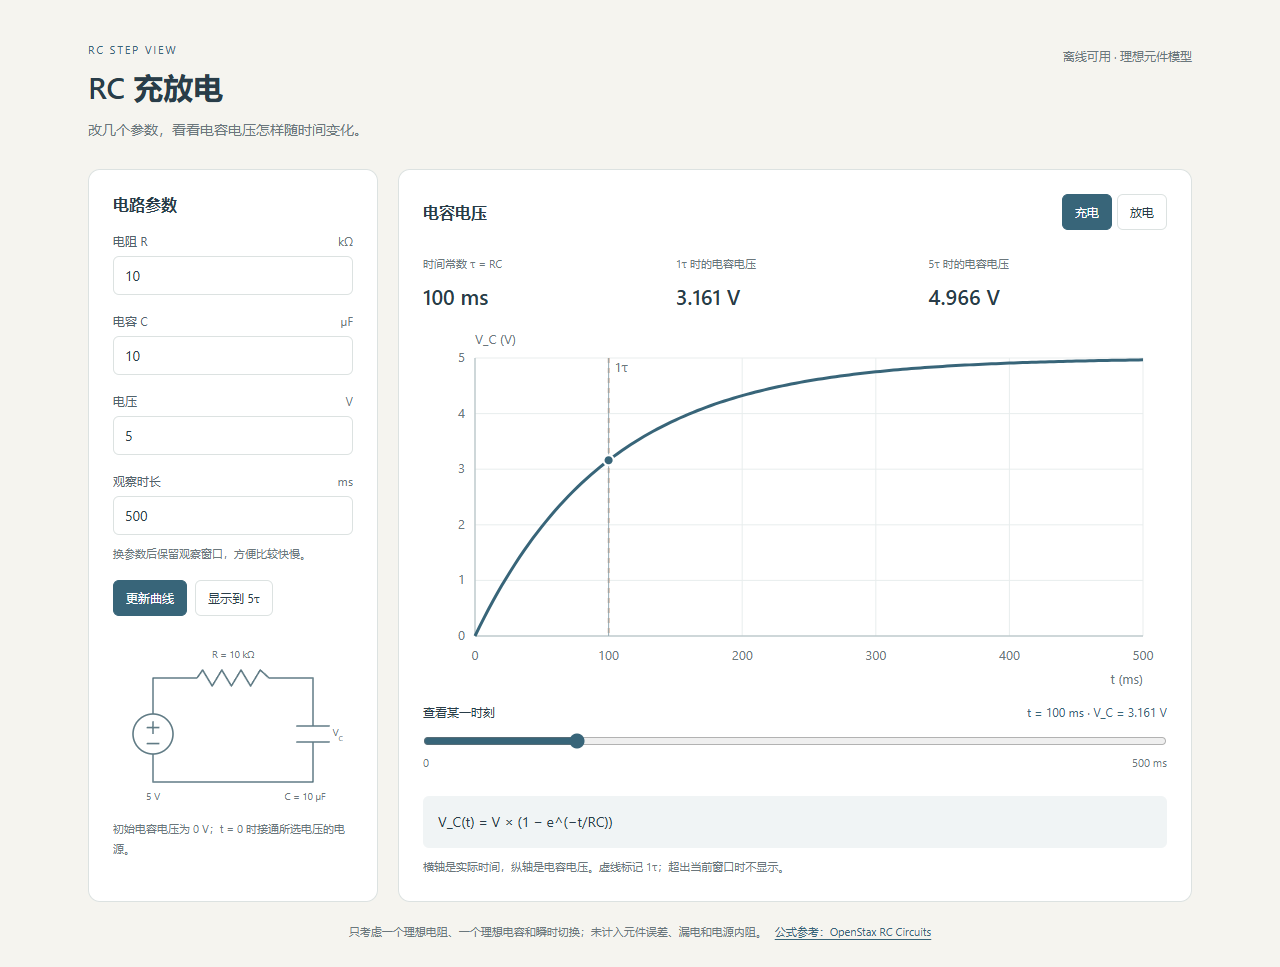
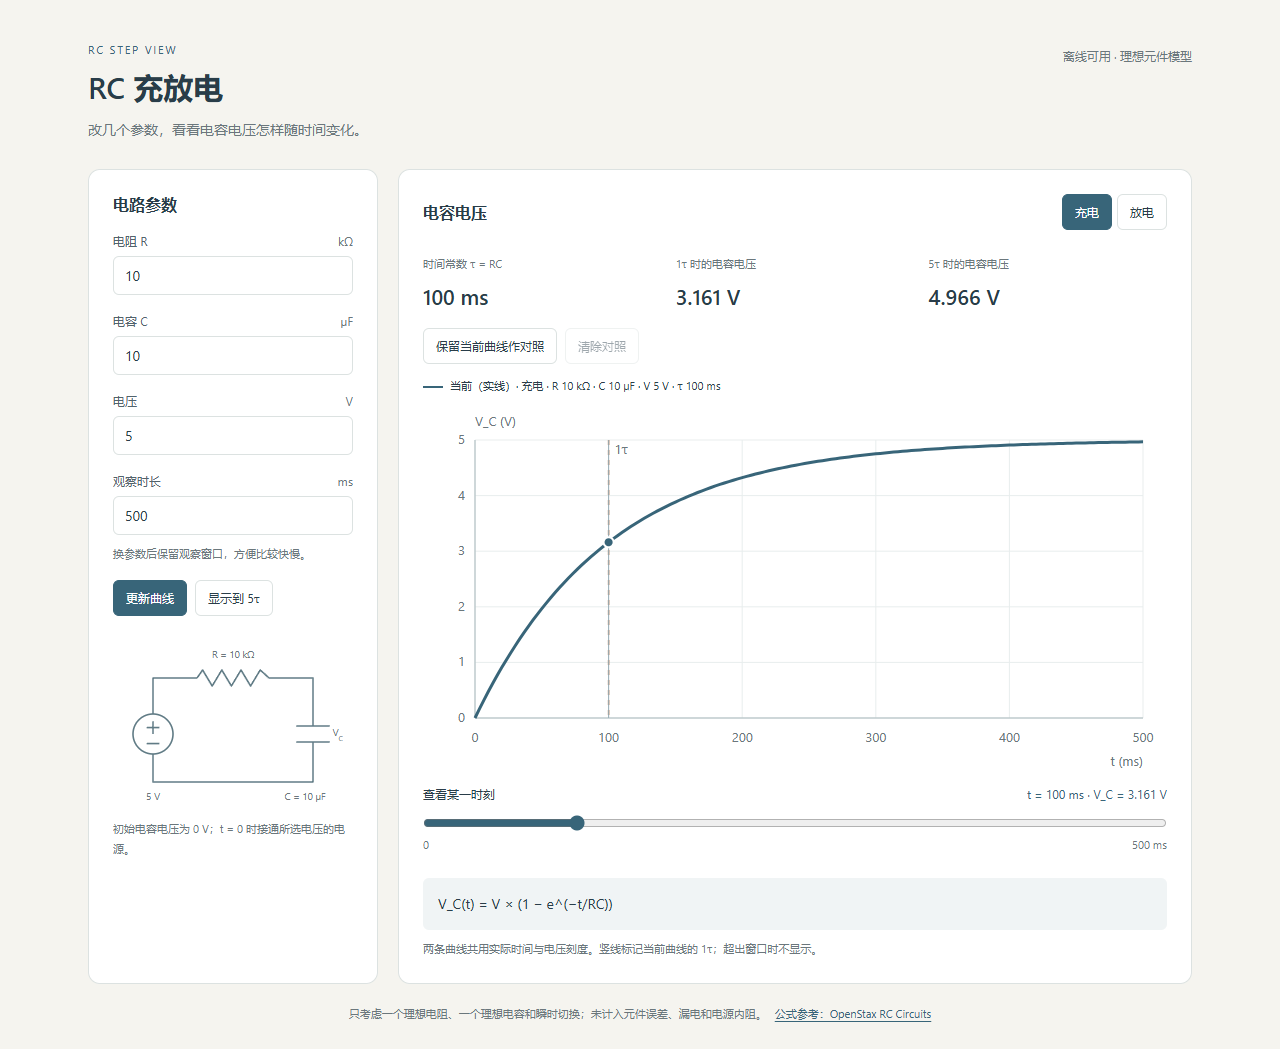
Keep a reference RC curve for parameter comparison

diff --git a/app.js b/app.js
@@ -6,6 +6,7 @@ const plot = byId("plot");
 let mode = "charge";
 let model = circuit(10, 10, 5);
 let windowSeconds = 0.5;
+let reference = null;
 
 function number(value) { return Number(value.toPrecision(4)).toString(); }
 function time(value) {
@@ -20,18 +21,21 @@ function svg(tag, attributes = {}, text) {
   if (text !== undefined) element.textContent = text;
   return element;
 }
+function describe(curve, curveMode) {
+  return `${curveMode === "charge" ? "充电" : "放电"} · R ${number(curve.resistanceOhms / 1000)} kΩ · C ${number(curve.capacitanceFarads * 1e6)} µF · V ${number(curve.voltage)} V · τ ${time(curve.tauSeconds)}`;
+}
 
 function draw() {
   const width = Math.max(240, plot.clientWidth || 860);
   const height = width < 420 ? 300 : 360;
   const left = 52, top = 30, right = 24, bottom = 52;
   plot.setAttribute("viewBox", `0 0 ${width} ${height}`);
-  const maxVoltage = model.voltage || 1;
+  const maxVoltage = Math.max(model.voltage, reference ? reference.model.voltage : 0) || 1;
   const x = seconds => left + seconds / windowSeconds * (width - left - right);
   const y = volts => height - bottom - volts / maxVoltage * (height - top - bottom);
   const timeScale = windowSeconds < 0.001 ? 1e6 : windowSeconds < 1 ? 1000 : 1;
   const unit = timeScale === 1e6 ? "µs" : timeScale === 1000 ? "ms" : "s";
-  plot.replaceChildren(svg("title", { id: "plot-description" }, `${mode === "charge" ? "充电" : "放电"}曲线，时间 0 至 ${time(windowSeconds)}，电压 0 至 ${number(maxVoltage)} V`));
+  plot.replaceChildren(svg("title", { id: "plot-description" }, `${mode === "charge" ? "充电" : "放电"}曲线${reference ? "与保留的对照曲线" : ""}，时间 0 至 ${time(windowSeconds)}，电压 0 至 ${number(maxVoltage)} V`));
   for (let index = 0; index <= 5; index++) {
     const seconds = windowSeconds * index / 5, volts = maxVoltage * index / 5;
     plot.append(svg("line", { x1: x(seconds), x2: x(seconds), y1: top, y2: y(0), class: "plot-grid" }),
@@ -46,15 +50,29 @@ function draw() {
     plot.append(svg("line", { id: "tau-line", x1: x(model.tauSeconds), x2: x(model.tauSeconds), y1: top, y2: y(0), class: "tau-marker" }),
       svg("text", { x: Math.min(x(model.tauSeconds) + 6, width - right - 20), y: top + 14, class: "plot-text" }, "1τ"));
   }
-  const points = sampleCurve(model, mode, windowSeconds);
-  const path = points.map((point, index) => `${index === 0 ? "M" : "L"}${x(point.timeSeconds)},${y(point.voltage)}`).join(" ");
-  plot.append(svg("path", { id: "response", d: path, class: "response-line" }));
+  const curvePath = (curve, curveMode) => sampleCurve(curve, curveMode, windowSeconds)
+    .map((point, index) => `${index === 0 ? "M" : "L"}${x(point.timeSeconds)},${y(point.voltage)}`).join(" ");
+  if (reference) plot.append(svg("path", { id: "reference-response", d: curvePath(reference.model, reference.mode), class: "reference-line" }));
+  plot.append(svg("path", { id: "response", d: curvePath(model, mode), class: "response-line" }));
   const selectedTime = windowSeconds * Number(byId("cursor").value) / 1000;
   const selectedVoltage = voltageAt(model, selectedTime, mode);
   plot.append(svg("line", { x1: x(selectedTime), x2: x(selectedTime), y1: top, y2: y(0), class: "cursor-marker" }),
     svg("circle", { id: "selected-point", cx: x(selectedTime), cy: y(selectedVoltage), r: 5, class: "cursor-dot" }));
   byId("readout").textContent = `t = ${time(selectedTime)} · V_C = ${number(selectedVoltage)} V`;
-  byId("cursor").setAttribute("aria-valuetext", byId("readout").textContent);
+  const referenceReadout = byId("reference-readout");
+  referenceReadout.hidden = !reference;
+  referenceReadout.textContent = "";
+  if (reference) {
+    const referenceVoltage = voltageAt(reference.model, selectedTime, reference.mode);
+    plot.append(svg("circle", { id: "reference-point", cx: x(selectedTime), cy: y(referenceVoltage), r: 4, class: "reference-dot" }));
+    referenceReadout.textContent = `同一时刻，对照 V_C = ${number(referenceVoltage)} V`;
+  }
+  byId("cursor").setAttribute("aria-valuetext", [byId("readout").textContent, referenceReadout.textContent].filter(Boolean).join("；"));
+  byId("current-description").textContent = `当前（实线）· ${describe(model, mode)}`;
+  byId("reference-description").hidden = !reference;
+  byId("reference-description").textContent = reference ? `对照（虚线）· ${describe(reference.model, reference.mode)}` : "";
+  byId("clear-reference").disabled = !reference;
+  byId("capture").textContent = reference ? "用当前曲线替换对照" : "保留当前曲线作对照";
   byId("tau").textContent = time(model.tauSeconds);
   byId("at-tau").textContent = `${number(voltageAt(model, model.tauSeconds, mode))} V`;
   byId("at-five").textContent = `${number(voltageAt(model, 5 * model.tauSeconds, mode))} V`;
@@ -86,11 +104,22 @@ function update(fit = false) {
     if (fit) byId("window").value = String(windowSeconds * 1000);
     byId("error").textContent = "";
     draw();
-  } catch (error) { byId("error").textContent = `${error.message} 曲线保留上次有效参数。`; }
+    return true;
+  } catch (error) {
+    byId("error").textContent = `${error.message} 曲线保留上次有效参数。`;
+    return false;
+  }
 }
 byId("parameters").addEventListener("submit", event => { event.preventDefault(); update(); });
 for (const id of ["resistance", "capacitance", "voltage", "window"]) byId(id).addEventListener("input", () => update());
 byId("fit").addEventListener("click", () => update(true));
+byId("capture").addEventListener("click", () => {
+  if (!update()) return;
+  // Copy the valid circuit and mode; both curves use the live observation window.
+  reference = { model: { ...model }, mode };
+  draw();
+});
+byId("clear-reference").addEventListener("click", () => { reference = null; draw(); });
 byId("cursor").addEventListener("input", draw);
 for (const name of ["charge", "discharge"]) byId(name).addEventListener("click", () => { mode = name; draw(); });
 window.addEventListener("resize", draw);

diff --git a/index.html b/index.html
@@ -47,12 +47,15 @@
       <section class="plot-panel" aria-labelledby="plot-title">
         <div class="plot-heading"><h2 id="plot-title">电容电压</h2><div class="mode-switch" aria-label="充放电模式"><button id="charge" type="button" aria-pressed="true">充电</button><button id="discharge" type="button" aria-pressed="false">放电</button></div></div>
         <div class="metrics"><div><span>时间常数 τ = RC</span><strong id="tau"></strong></div><div><span>1τ 时的电容电压</span><strong id="at-tau"></strong></div><div><span>5τ 时的电容电压</span><strong id="at-five"></strong></div></div>
+        <div class="comparison-controls"><button id="capture" type="button">保留当前曲线作对照</button><button id="clear-reference" type="button" disabled>清除对照</button></div>
+        <div class="curve-legend" aria-label="曲线参数"><p id="current-description"></p><p id="reference-description" hidden></p></div>
         <svg id="plot" viewBox="0 0 860 360" role="img" aria-labelledby="plot-description"></svg>
         <label class="cursor-label" for="cursor">查看某一时刻 <output id="readout" for="cursor"></output></label>
         <input id="cursor" type="range" min="0" max="1000" step="1" value="200" aria-describedby="readout">
         <div class="range-labels"><span>0</span><span id="window-label"></span></div>
+        <output id="reference-readout" class="reference-readout" for="cursor" hidden></output>
         <p id="formula" class="formula"></p>
-        <p class="note">横轴是实际时间，纵轴是电容电压。虚线标记 1τ；超出当前窗口时不显示。</p>
+        <p class="note">两条曲线共用实际时间与电压刻度。竖线标记当前曲线的 1τ；超出窗口时不显示。</p>
       </section>
     </div>
     <footer>只考虑一个理想电阻、一个理想电容和瞬时切换；未计入元件误差、漏电和电源内阻。<a href="https://openstax.org/books/university-physics-volume-2/pages/10-5-rc-circuits" target="_blank" rel="noopener noreferrer">公式参考：OpenStax RC Circuits</a></footer>

diff --git a/style.css b/style.css
@@ -16,6 +16,7 @@ label span { color: var(--muted); }
 input[type=number] { width: 100%; border: 1px solid var(--line); border-radius: 6px; padding: 9px 11px; background: #fff; color: var(--ink); font-size: 14px; }
 button { cursor: pointer; border: 1px solid var(--line); border-radius: 6px; background: #fff; color: var(--ink); padding: 9px 12px; font-size: 12px; }
 button:hover { background: #f0f3f4; }
+button:disabled { cursor: default; opacity: .45; }
 .primary, .mode-switch button[aria-pressed=true] { background: var(--blue); border-color: var(--blue); color: #fff; }
 .primary:hover { background: #2c5161; }
 button:focus-visible, input:focus-visible { outline: 3px solid #9bb7c0; outline-offset: 3px; }
@@ -31,6 +32,14 @@ button:focus-visible, input:focus-visible { outline: 3px solid #9bb7c0; outline-
 .metrics span { display: block; color: var(--muted); font-size: 11px; line-height: 1.6; }
 .metrics strong { display: block; font-size: 21px; font-weight: 500; margin-top: 9px; overflow-wrap: anywhere; }
 #plot { display: block; width: 100%; height: auto; }
+.comparison-controls { display: flex; flex-wrap: wrap; gap: 8px; }
+.curve-legend { margin: 12px 0 14px; font-size: 11px; line-height: 1.8; overflow-wrap: anywhere; }
+.curve-legend p { margin: 5px 0; }
+.curve-legend p::before { content: ""; display: inline-block; width: 20px; margin-right: 7px; border-top: 2px solid var(--blue); vertical-align: middle; }
+.curve-legend #reference-description::before { border-top: 2px dashed var(--copper); }
+.reference-line { fill: none; stroke: var(--copper); stroke-width: 2.5; stroke-dasharray: 7 5; }
+.reference-dot { fill: var(--copper); stroke: #fff; stroke-width: 2; }
+.reference-readout { display: block; margin-top: 10px; color: var(--copper); font-size: 12px; line-height: 1.6; }
 .plot-grid { stroke: #e8eded; stroke-width: 1; }
 .plot-axis { fill: none; stroke: #a8b8bd; stroke-width: 1; }
 .plot-text { fill: var(--muted); font-size: 13px; }

diff --git a/README.md b/README.md
@@ -18,6 +18,18 @@ Resistance is in kΩ, capacitance in µF and the observation window in ms. Defau
 
 也可以在仓库目录运行 `python -m http.server 8000`，再打开 `http://localhost:8000`。 / You can also run `python -m http.server 8000` in the repository and visit `http://localhost:8000`.
 
+## 留一条曲线作对照 / Keep a comparison curve
+
+点击“保留当前曲线作对照”，再改变 R 或 C。实线是当前参数，虚线是保留的参数，图例列出各自的 R、C、V、模式和 τ。滑块同时读取两条曲线在同一时刻的电压。
+
+Click “保留当前曲线作对照”, then change R or C. The solid line uses current parameters; the dashed line keeps the captured parameters. The legend lists R, C, V, mode and τ for each. The slider reads both voltages at the same time.
+
+每次只保留一条对照，可以替换或清除。对照的电压与模式也会保留，两条曲线共用当前观察窗口，纵轴按较大的电压缩放。“显示到 5τ”仍按当前曲线调整窗口。刷新后对照会清除。
+
+Only one comparison is kept; replace or clear it as needed. Its voltage and mode stay captured. Both curves share the live observation window, with the vertical scale covering the larger voltage. “显示到 5τ” still follows the current curve. Refreshing clears the comparison.
+
+![同一窗口的 RC 对照曲线 / RC curves in the same time window](docs/comparison.png)
+
 ## 计算方式 / Model
 
 时间常数 `τ = R × C`，计算前把单位换成 Ω 和 F。充电从 0 V 开始，接入所选电压 V 的理想电源；放电从所选电压 V 开始，电源断开，通过 R 放电。
@@ -39,11 +51,13 @@ The page marks 1τ and reports the voltages at 1τ and 5τ. The equations follow
 
 `model.js` handles unit conversion, validation and curve sampling. `app.js` reads inputs and draws the SVG chart and circuit sketch. When the window is much longer than τ, most samples cover the first 10τ to retain the fast initial change.
 
+保留对照时复制当前有效模型与模式，之后的输入不会改动这份副本。绘图与读数使用同一套采样和电压函数。 / Capturing copies the valid model and mode, so later input leaves that copy unchanged. Both curves and readings use the same sampling and voltage functions.
+
 装有 Node.js 时运行 `node --test`。检查包括已知参数的数值、固定时刻的 R/C 对比、曲线边界与单调性、长窗口采样和无效输入。 / With Node.js installed, run `node --test`. Checks cover known values, R/C changes at a fixed time, bounds and monotonicity, long-window sampling and invalid input.
 
-一个小练习：保持默认 500 ms 窗口和滑块的 100 ms 时刻，把 R 从 10 改为 20 kΩ。先猜电压会升高还是降低，再检查 τ 和读数。想改代码，可以试着把默认 C 从 10 改为 22 µF，并让输入框与初始曲线保持一致。
+一个小练习：先保留默认曲线作对照，保持 500 ms 窗口和滑块的 100 ms 时刻，把 R 从 10 改为 20 kΩ。先猜电压会升高还是降低，再检查两条曲线的 τ 和读数。想改代码，可以试着把默认 C 从 10 改为 22 µF，并让输入框与初始曲线保持一致。
 
-A small exercise: keep the default 500 ms window and the slider at 100 ms, then change R from 10 to 20 kΩ. Predict whether the voltage increases or decreases, then check τ and the reading. For a code change, try setting the default C to 22 µF while keeping the input and initial curve consistent.
+A small exercise: capture the default curve, keep the 500 ms window and the slider at 100 ms, then change R from 10 to 20 kΩ. Predict whether the voltage increases or decreases, then check both time constants and readings. For a code change, try setting the default C to 22 µF while keeping the input and initial curve consistent.
 
 ## 当前限制 / Limits
 
